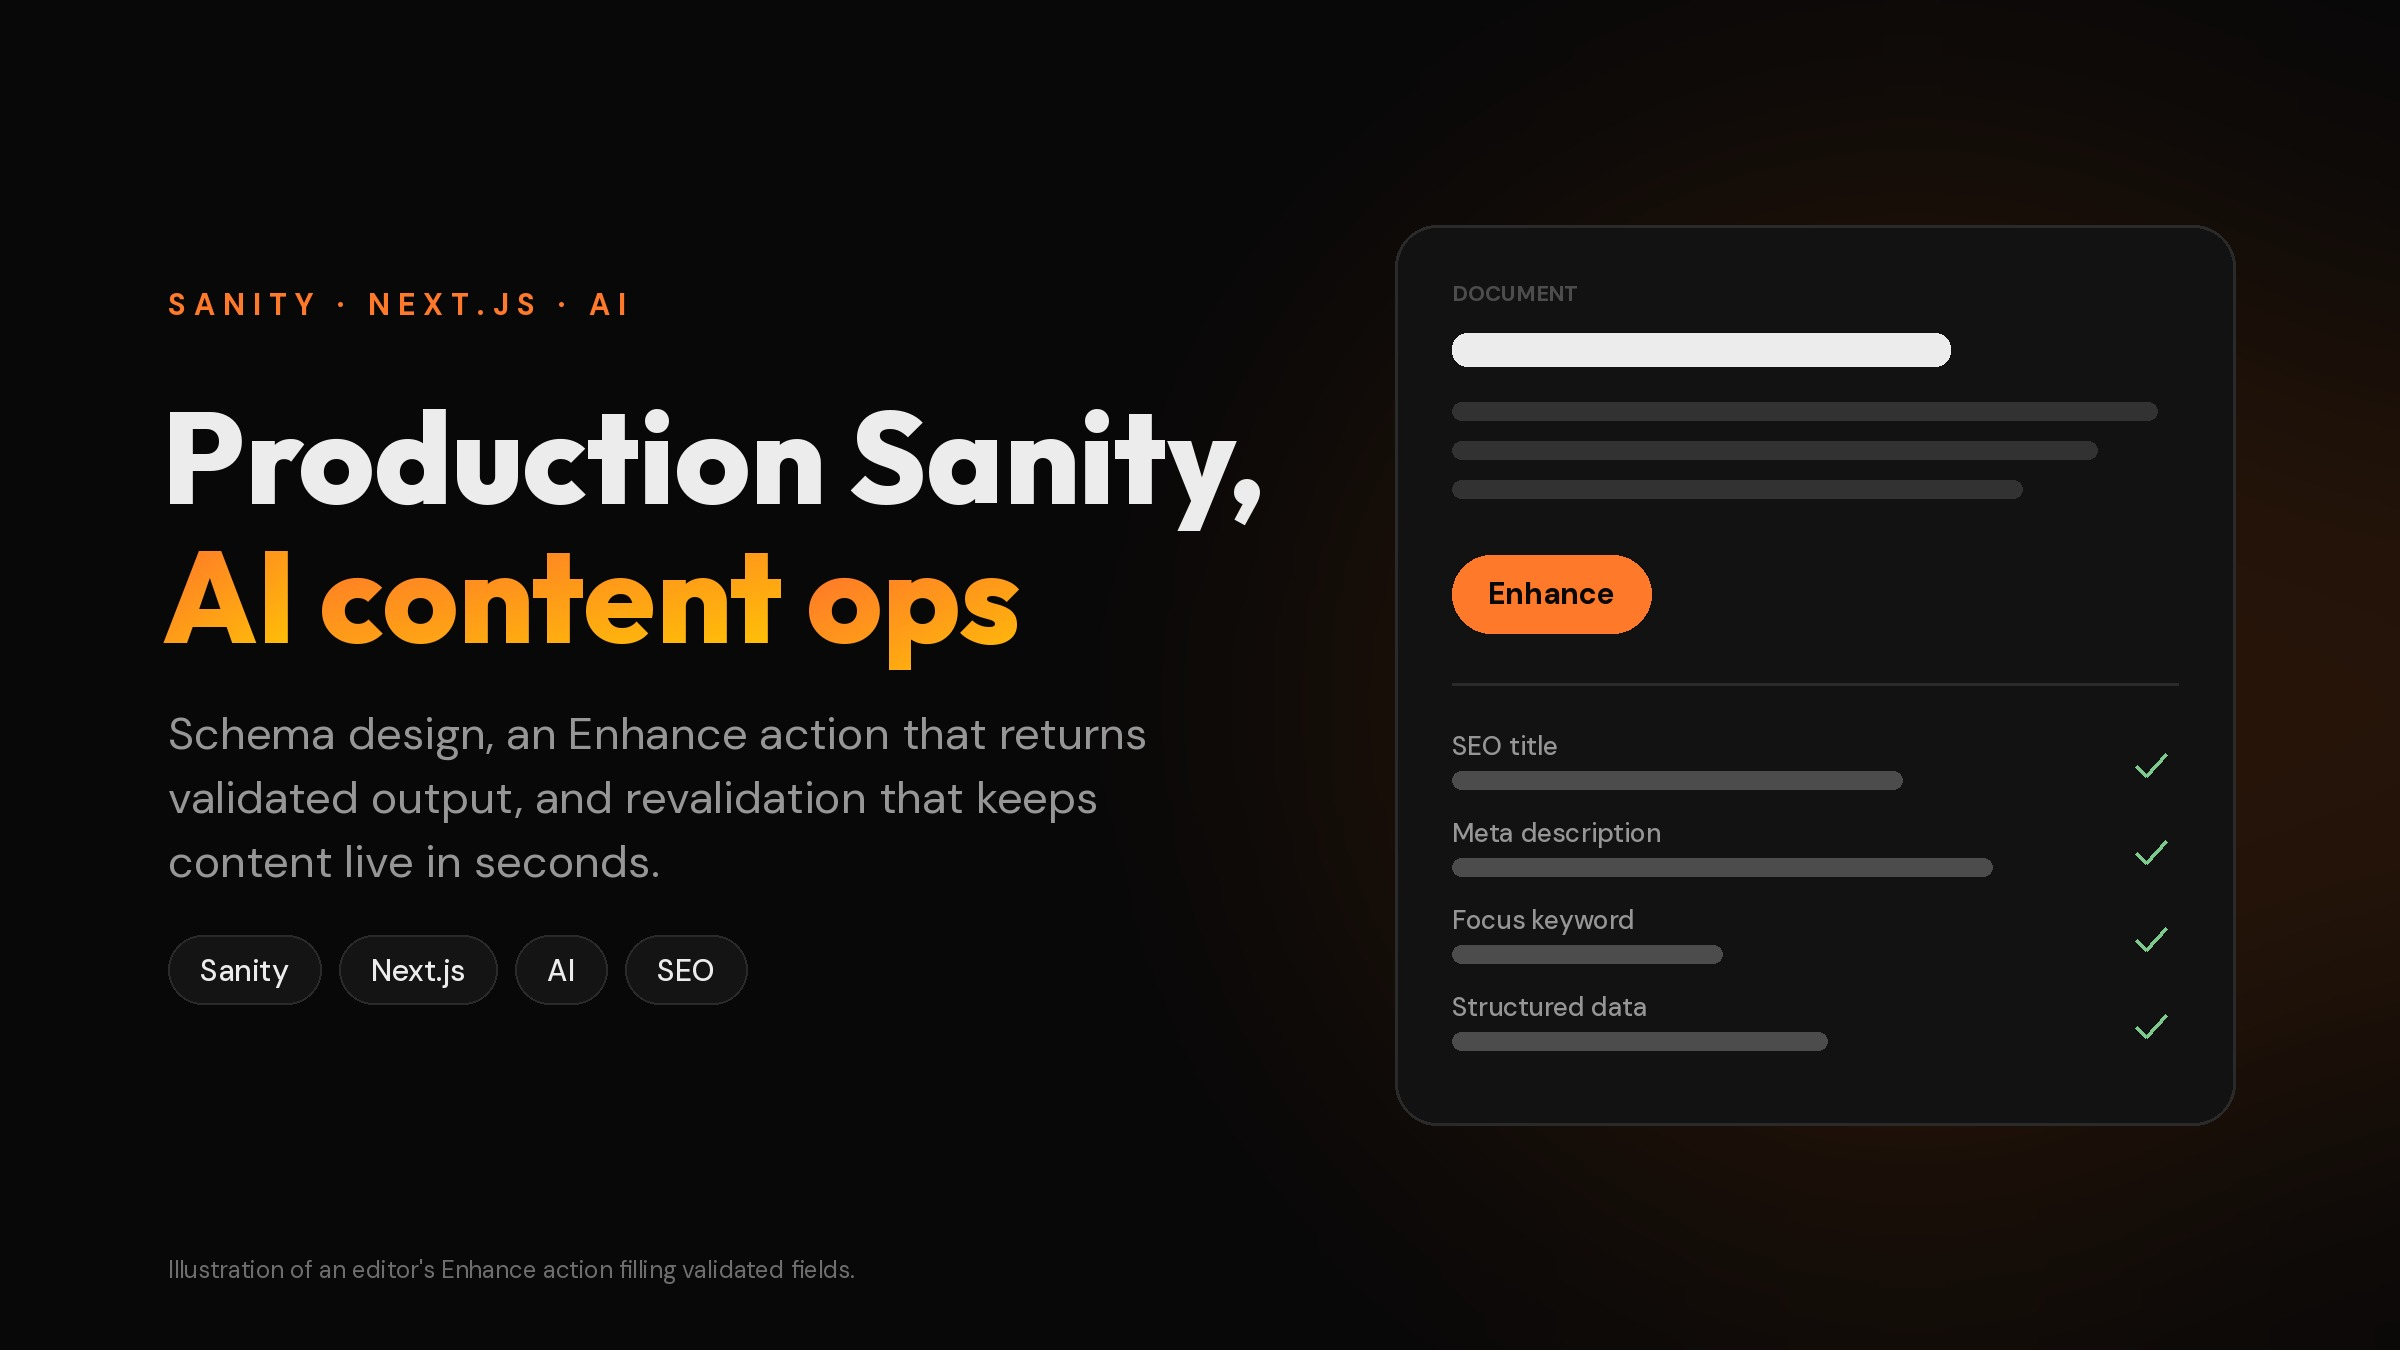
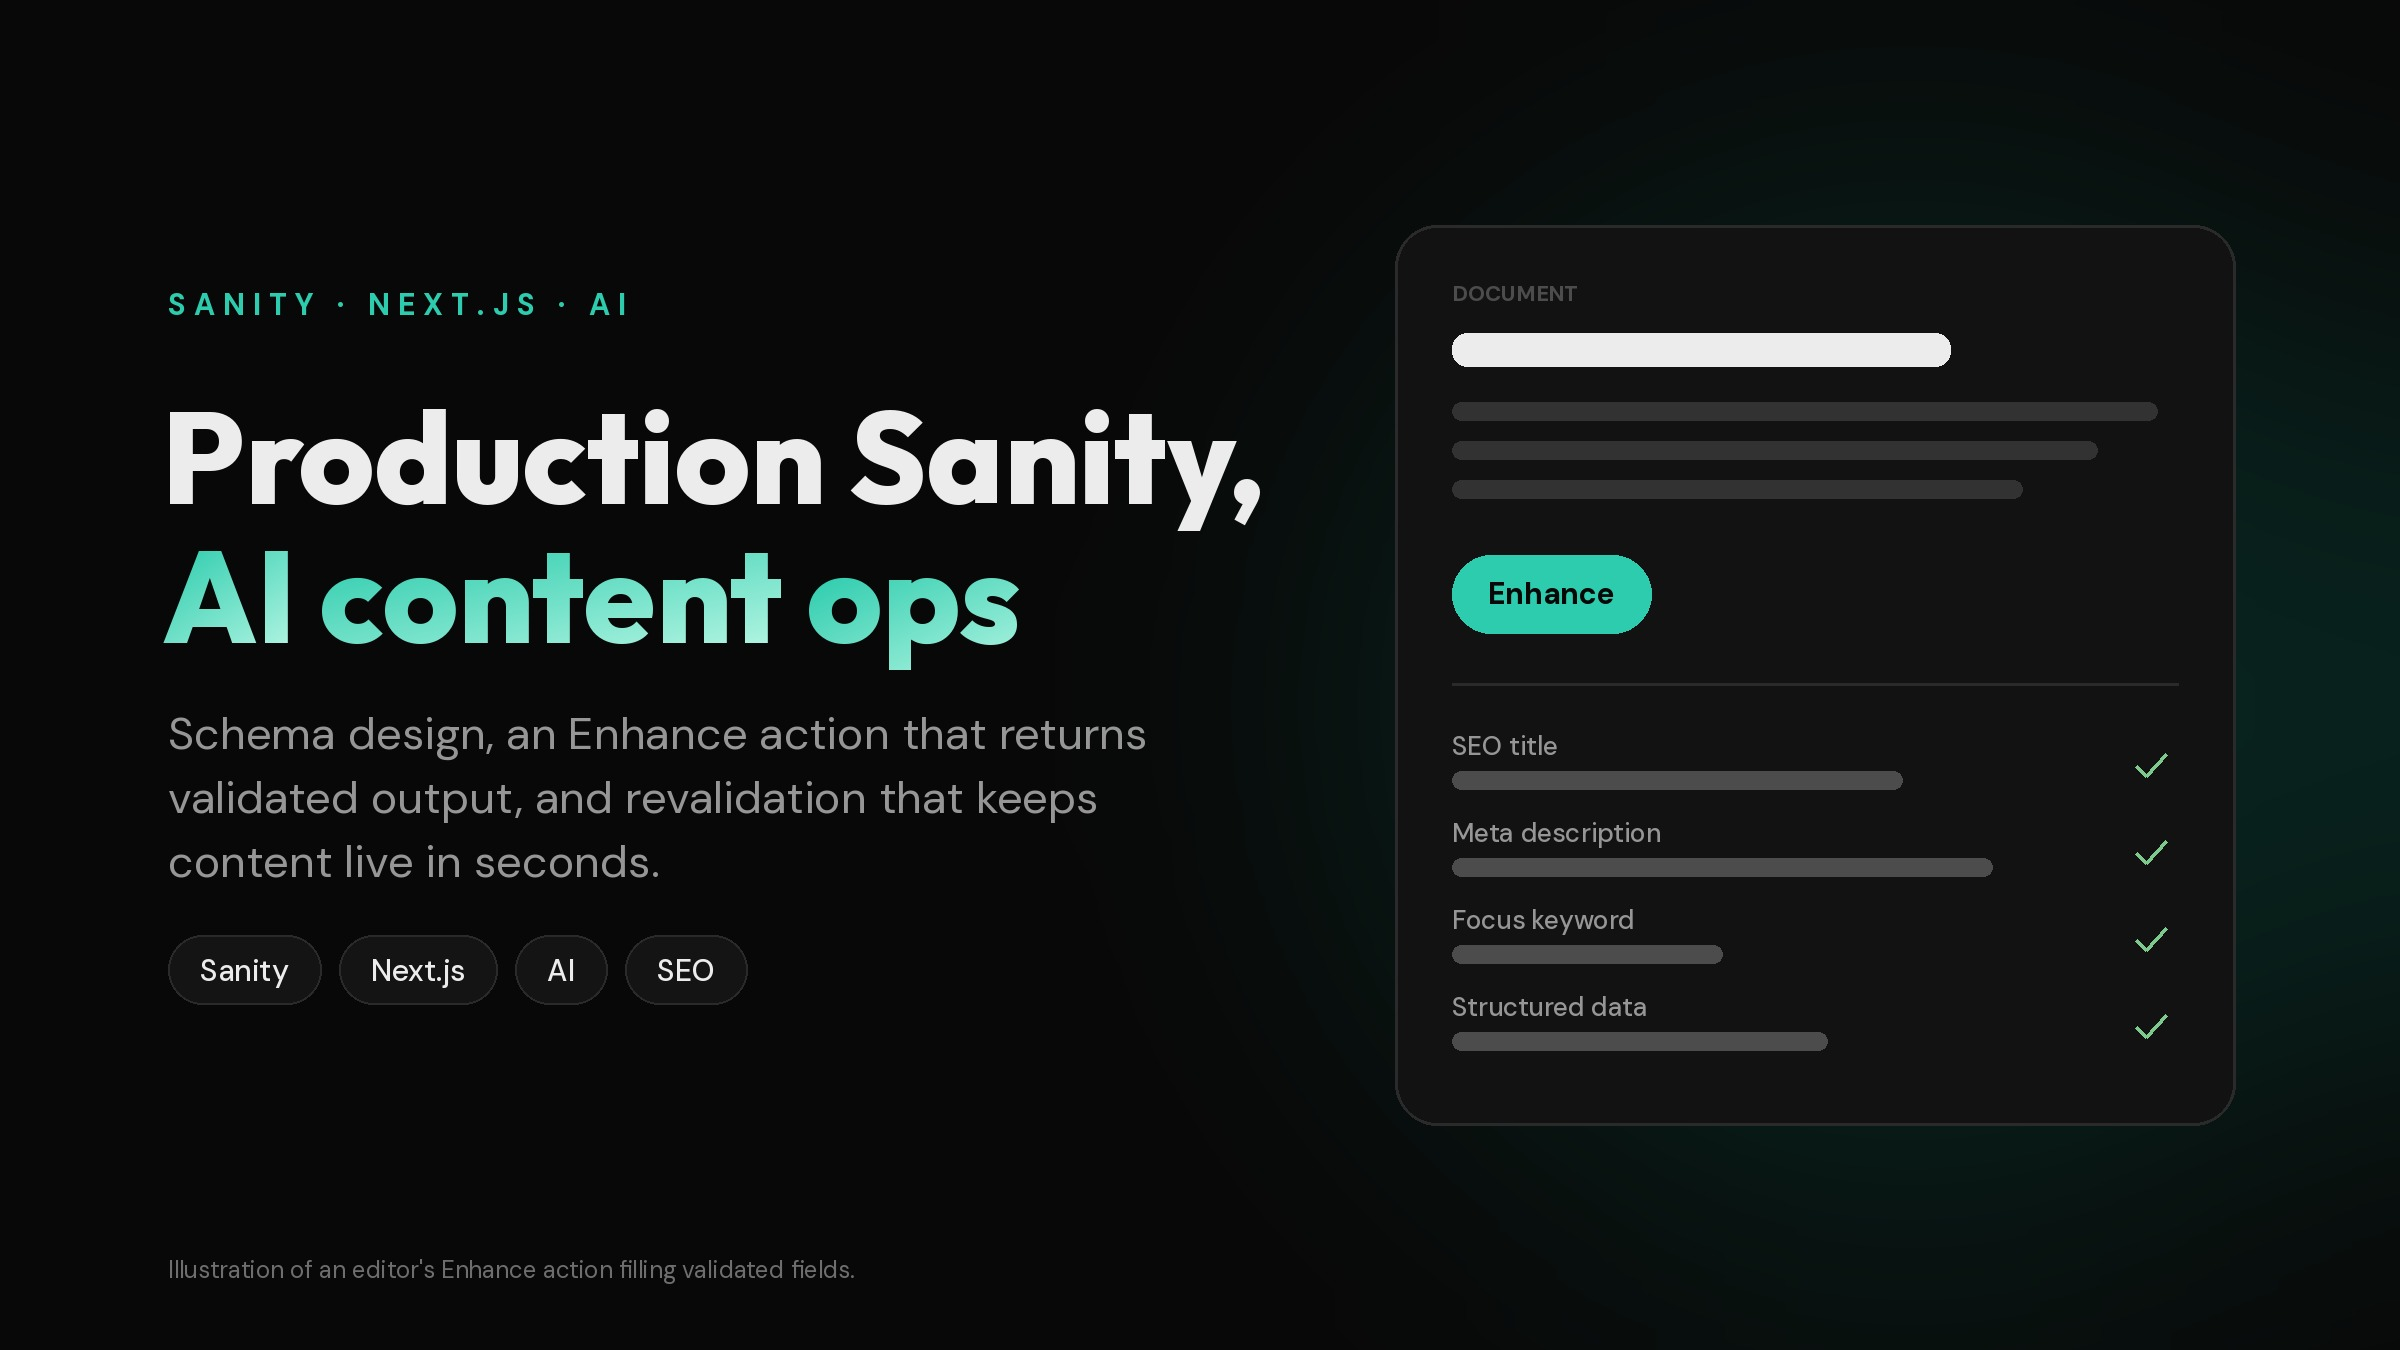
feat(site-images): switch the site accent from orange to teal
The site's brand color is now the teal of the homepage portrait
(#2DCCAE), with a teal-to-mint gradient (#B2F5E2) for highlighted
headline words. The tokens are renamed ACCENT and ACCENT_END so the next
change is a value change only. Share cards and blog heroes are
regenerated, and the rules are updated.

Claude-Session: https://claude.ai/code/session_01GEcFuacA1KDBMhAXTmWhNq

diff --git a/python/site_images/generate_cards.py b/python/site_images/generate_cards.py
@@ -23,7 +23,8 @@ from pathlib import Path
 from PIL import Image, ImageDraw, ImageFilter
 
 from style import (
-    AMBER,
+    ACCENT,
+    ACCENT_END,
     BAR,
     BG,
     BLOCK,
@@ -38,7 +39,6 @@ from style import (
     LINE,
     MUTED,
     NOTE,
-    ORANGE,
     PANEL,
     SOFT,
     TEXT,
@@ -116,8 +116,8 @@ def share_card(eyebrow, title, sub, tags):
     ImageDraw.Draw(glow).ellipse((720, -260, 1460, 480), fill=GLOW)
     im = Image.blend(im, glow.filter(ImageFilter.GaussianBlur(140)), 0.9)
     d = ImageDraw.Draw(im)
-    d.rectangle((80, 78, 128, 84), fill=ORANGE)
-    spaced(d, (80, 108), eyebrow.upper(), text(21, 500), ORANGE, 3.2)
+    d.rectangle((80, 78, 128, 84), fill=ACCENT)
+    spaced(d, (80, 108), eyebrow.upper(), text(21, 500), ACCENT, 3.2)
     tf = display(92)
     if d.textlength(title, font=tf) > W - 160:
         tf = display(76)
@@ -134,7 +134,7 @@ def share_card(eyebrow, title, sub, tags):
     x = 80 + d.textlength("Aaron Davis", font=nf) + 14
     d.text((x, 562), "·  Applied AI Full-Stack Engineer", font=text(24), fill=GRAY)
     uf = text(24, 500)
-    d.text((W - 80 - d.textlength("arndvs.com", font=uf), 562), "arndvs.com", font=uf, fill=ORANGE)
+    d.text((W - 80 - d.textlength("arndvs.com", font=uf), 562), "arndvs.com", font=uf, fill=ACCENT)
     return im
 
 
@@ -148,14 +148,14 @@ def px(v):
 
 
 def hero_base(eyebrow, line1, line2, highlight, sub, tags, note):
-    """Left column of a blog hero. Words in `highlight` take the orange-to-amber gradient."""
+    """Left column of a blog hero. Words in `highlight` take the teal-to-mint gradient."""
     W, H = px(1600), px(900)
     im = Image.new("RGB", (W, H), HERO_BG)
     glow = Image.new("RGB", (W, H), HERO_BG)
     ImageDraw.Draw(glow).ellipse((px(900), px(120), px(1650), px(820)), fill=GLOW)
     im = Image.blend(im, glow.filter(ImageFilter.GaussianBlur(px(120))), 0.85)
     d = ImageDraw.Draw(im)
-    spaced(d, (px(112), px(190)), eyebrow.upper(), text(px(20), 700), ORANGE, px(5.4))
+    spaced(d, (px(112), px(190)), eyebrow.upper(), text(px(20), 700), ACCENT, px(5.4))
     size = 104
     tf = display(px(size))
     while max(d.textlength(line1, font=tf), d.textlength(line2, font=tf)) > px(740):
@@ -166,7 +166,7 @@ def hero_base(eyebrow, line1, line2, highlight, sub, tags, note):
         x = px(108)
         for word in line.split():
             if word in highlight:
-                gradient_text(im, (x, y), word, tf, ORANGE, AMBER)
+                gradient_text(im, (x, y), word, tf, ACCENT, ACCENT_END)
             else:
                 d.text((x, y), word, font=tf, fill=TEXT)
             x += d.textlength(word + " ", font=tf)
@@ -222,8 +222,8 @@ def hero_readable_vs_explainable():
     d.line((px(968), px(396), px(1452), px(396)), fill=LINE, width=px(2))
     label(d, 968, 424, "RUN IT")
     tiles(d, 968, 464, "banana", 62, 12, BLOCK, TEXT, LINE)
-    arrow_down(d, px(1190), px(548), px(34), ORANGE)
-    tiles(d, 968, 610, "aaabnn", 62, 12, ORANGE, HERO_BG)
+    arrow_down(d, px(1190), px(548), px(34), ACCENT)
+    tiles(d, 968, 610, "aaabnn", 62, 12, ACCENT, HERO_BG)
     check(d, px(968), px(700), px(18), GREEN)
     d.text((px(998), px(696)), "sorted, so I believe the explanation", font=text(px(17), 500), fill=GREEN)
     return im
@@ -241,18 +241,18 @@ def hero_programming_as_theory_building():
         "After Peter Naur, Programming as Theory Building.",
     )
     panel(d)
-    label(d, 968, 186, "THEORY", ORANGE)
+    label(d, 968, 186, "THEORY", ACCENT)
     d.text((px(968), px(212)), "why the code is the way it is", font=text(px(19)), fill=MUTED)
     x0, y0, x1, y1, dash, gap = 968, 262, 1452, 712, 16, 12
     x = x0
     while x < x1:
         for y in (y0, y1):
-            d.line((px(x), px(y), px(min(x + dash, x1)), px(y)), fill=ORANGE, width=px(3))
+            d.line((px(x), px(y), px(min(x + dash, x1)), px(y)), fill=ACCENT, width=px(3))
         x += dash + gap
     y = y0
     while y < y1:
         for x in (x0, x1):
-            d.line((px(x), px(y), px(x), px(min(y + dash, y1))), fill=ORANGE, width=px(3))
+            d.line((px(x), px(y), px(x), px(min(y + dash, y1))), fill=ACCENT, width=px(3))
         y += dash + gap
     for i, t in enumerate(["what the business needs", "what was tried and dropped", "what must never change"]):
         d.text((px(1000), px(292 + i * 34)), "·  " + t, font=text(px(18)), fill=MUTED)
@@ -294,7 +294,7 @@ def hero_tailwind_indicator():
     bf = text(px(22), 700)
     badge = "lg  ·  1280 × 720"
     bw = d.textlength(badge, font=bf) + px(40)
-    d.rounded_rectangle((px(962), px(676), px(962) + bw, px(726)), px(25), fill=ORANGE)
+    d.rounded_rectangle((px(962), px(676), px(962) + bw, px(726)), px(25), fill=ACCENT)
     d.text((px(962) + px(20), px(687)), badge, font=bf, fill=HERO_BG)
     return im
 
@@ -317,7 +317,7 @@ def hero_sanity_content_ops():
         bar(d, 968, 268 + i * 26, w, 12)
     ef = text(px(20), 700)
     ew = d.textlength("Enhance", font=ef) + px(48)
-    d.rounded_rectangle((px(968), px(370), px(968) + ew, px(422)), px(26), fill=ORANGE)
+    d.rounded_rectangle((px(968), px(370), px(968) + ew, px(422)), px(26), fill=ACCENT)
     d.text((px(968) + px(24), px(383)), "Enhance", font=ef, fill=HERO_BG)
     d.line((px(968), px(456), px(1452), px(456)), fill=LINE, width=px(2))
     rows = [("SEO title", 300), ("Meta description", 360), ("Focus keyword", 180), ("Structured data", 250)]

diff --git a/python/site_images/style.py b/python/site_images/style.py
@@ -16,8 +16,8 @@ DEFAULT_OUT = REPO / "visuals" / "arndvs-site-images"
 # Site palette (dark theme)
 BG = (10, 10, 10)  # share-card background
 HERO_BG = (8, 8, 8)  # blog-hero background
-ORANGE = (255, 121, 42)  # --primary, and the start of .text-gradient
-AMBER = (255, 193, 7)  # the end of .text-gradient
+ACCENT = (45, 204, 174)  # --primary (#2DCCAE), and the start of .text-gradient
+ACCENT_END = (178, 245, 226)  # the end of .text-gradient (#B2F5E2)
 WHITE = (250, 250, 250)
 TEXT = (236, 236, 236)
 GRAY = (163, 163, 163)
@@ -31,7 +31,7 @@ BAR = (50, 50, 50)
 BLOCK = (30, 30, 30)
 BLOCK_ALT = (24, 24, 24)
 SOFT = (76, 76, 76)
-GLOW = (46, 24, 10)  # blurred orange glow behind the right-hand side
+GLOW = (8, 40, 34)  # blurred teal glow behind the right-hand side
 GREEN = (126, 201, 142)  # "passed" marks only
 
 
@@ -76,8 +76,8 @@ def chips(d, x, y, items, f, pad_x, h, gap, fill, outline, text_fill):
         x += w + gap
 
 
-def gradient_text(im, xy, s, f, c0=ORANGE, c1=AMBER):
-    """The site's .text-gradient: orange to amber across the word."""
+def gradient_text(im, xy, s, f, c0=ACCENT, c1=ACCENT_END):
+    """The site's .text-gradient: teal to mint across the word."""
     d = ImageDraw.Draw(im)
     left, top, right, bottom = (int(v) for v in d.textbbox(xy, s, font=f))
     right, bottom = right + 2, bottom + 2

diff --git a/rules/site-images.md b/rules/site-images.md
@@ -26,17 +26,18 @@ Taken from the dark theme in the site's `src/app/globals.css`.
 |---|---|---|
 | Background, share cards | `#0A0A0A` | `BG` |
 | Background, blog heroes | `#080808` | `HERO_BG` |
-| Accent (the site's `--primary`) | `#FF792A` | `ORANGE` |
-| Gradient end (the site's `.text-gradient`) | `#FFC107` | `AMBER` |
+| Accent (the site's `--primary`) | `#2DCCAE` | `ACCENT` |
+| Gradient end (the site's `.text-gradient`) | `#B2F5E2` | `ACCENT_END` |
 | Headline text | `#FAFAFA` / `#ECECEC` | `WHITE` / `TEXT` |
 | Body text | `#A3A3A3` / `#969696` | `GRAY` / `MUTED` |
 | Panels and chips | `#121212` / `#141414` | `PANEL` / `CHIP` |
 | Hairlines | `#2A2A2A` | `LINE` |
 | Passed marks only | `#7EC98E` | `GREEN` |
 
-- Orange is the only accent. Use it for the eyebrow, one highlighted phrase, and one
-  filled element in the illustration.
-- The highlighted phrase in a headline takes the orange-to-amber gradient, the same one
+- Teal is the only accent. Use it for the eyebrow, one highlighted phrase, and one
+  filled element in the illustration. It is the same teal as the background of the
+  homepage portrait.
+- The highlighted phrase in a headline takes the teal-to-mint gradient, the same one
   the site's headings use.
 - Green appears only on a check mark that means something passed.
 
@@ -60,7 +61,7 @@ Taken from the dark theme in the site's `src/app/globals.css`.
 ## Share cards
 
 - One per project page, plus the default card for every other page.
-- Top to bottom: a short orange rule, an uppercase eyebrow, the title, one sentence, three
+- Top to bottom: a short teal rule, an uppercase eyebrow, the title, one sentence, three
   chips, then a footer with the name, the title "Applied AI Full-Stack Engineer", and
   arndvs.com.
 - The sentence says what the thing is or what rule it enforces. It is not a slogan.
